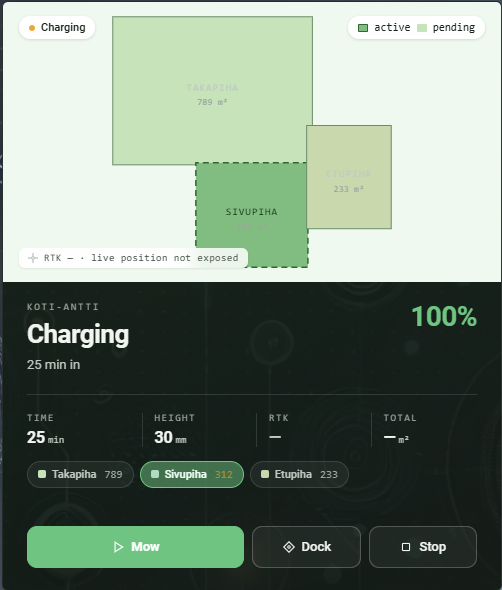
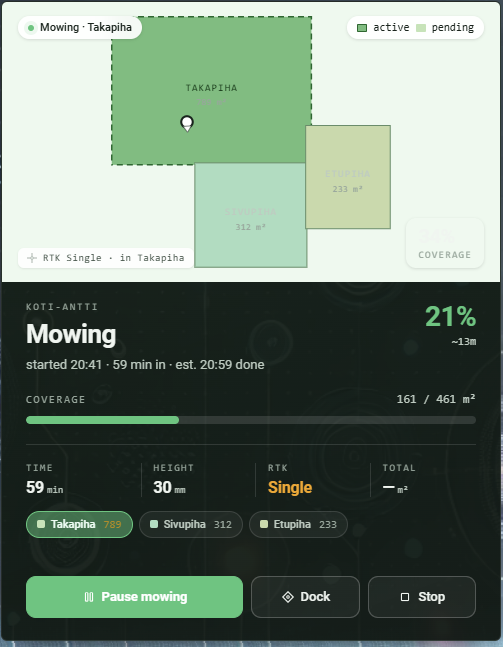
docs: add live-position dot styling to card-mod example; refresh preview

diff --git a/README.md b/README.md
@@ -138,6 +138,9 @@ card_mod:
     .map .pos-state { color: #44584c; background: rgba(255,255,255,0.85); }
     /* active zone chip: readable green */
     .zone-strip .zone.active { background: rgba(52,199,123,0.5); border-color: #34c77b; color: #eafff4; }
+    /* live position dot — clearly visible: white with a dark outline */
+    .map svg circle[r="5"] { fill: #ffffff; stroke: #14241d; stroke-width: 2; }
+    .map svg g:not(.dock-marker) path { fill: #ffffff; stroke: #14241d; stroke-width: 0.5; }
 ```
 
 Tip: raise the two background `rgba(...)` alpha values for a more opaque panel,